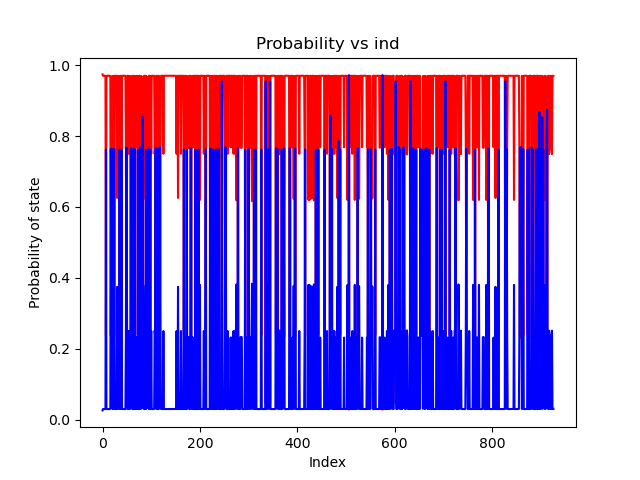
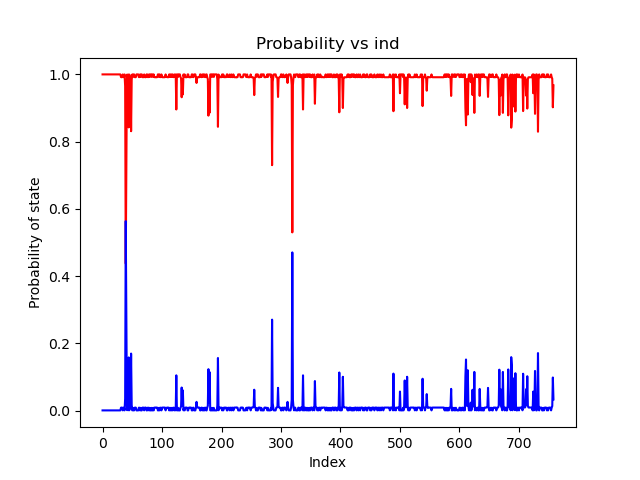
E step

diff --git a/tree.py b/tree.py
@@ -235,24 +235,24 @@ class Node:
         """
         bases = 'ACGT'
         n = len(bases)
+        if self.id != 0:
+            last = visited[-1]
+            tot = np.sum(self.probs)
+            for a in range(n):
+                for b in range(n):
+                    E_abij[a, b, self.id, last.id] = \
+                        (0.25 * self.probs[a] * self.bp[a, b] * last.probs[a]) / tot
+            for node in list(reversed(visited))[1:]:
+                for a in range(n):
+                    for b in range(n):
+                        E_abij[a, b, self.id, node.id] = \
+                            E_abij[a, b, self.id, last.id] + E_abij[a, b, last.id, node.id]
 
-        for a in range(n):
-            for b in range(n):
-                pass
-
-        if self.is_leaf():
-            c = data[self.name][ind]
-            self.probs = [int(c == a) for a in bases]
-            # fel_probs[ind] = np.log(0.25 * np.sum(self.probs))
-            return
-
-        for i_a, a in enumerate(bases):
-            p_i, p_j = 0, 0
-            for i_b, b in enumerate(bases):
-                p_i += (self.left.probs[i_b] * self.left.bp[i_a, i_b])
-            for i_c, c in enumerate(bases):
-                p_j += (self.right.probs[i_c] * self.right.bp[i_a, i_c])
-            self.probs[i_a] = p_i * p_j
+        # if self.is_leaf():
+        #     c = data[self.name][ind]
+        #     self.probs = [int(c == a) for a in bases]
+        #     # fel_probs[ind] = np.log(0.25 * np.sum(self.probs))
+        #     return
 
         visited.append(self)
         if self.left:

diff --git a/parameters.py b/parameters.py
@@ -232,7 +232,7 @@ def main():
     parser.add_argument('-f', action="store", dest="f", type=str, default='apoe.fa')
     # parser.add_argument('-mu', action="store", dest="mu", type=float, required=True)
     parser.add_argument('-c', action='store', dest='c', type=str, default=primates)
-    parser.add_argument('-mul', action='store', dest='mul', type=float, default=2.0)
+    parser.add_argument('-mul', action='store', dest='mul', type=float, default=10.0)
     parser.add_argument('-nc', action='store', dest='nc', type=str, default=None)
 
     args = parser.parse_args()
